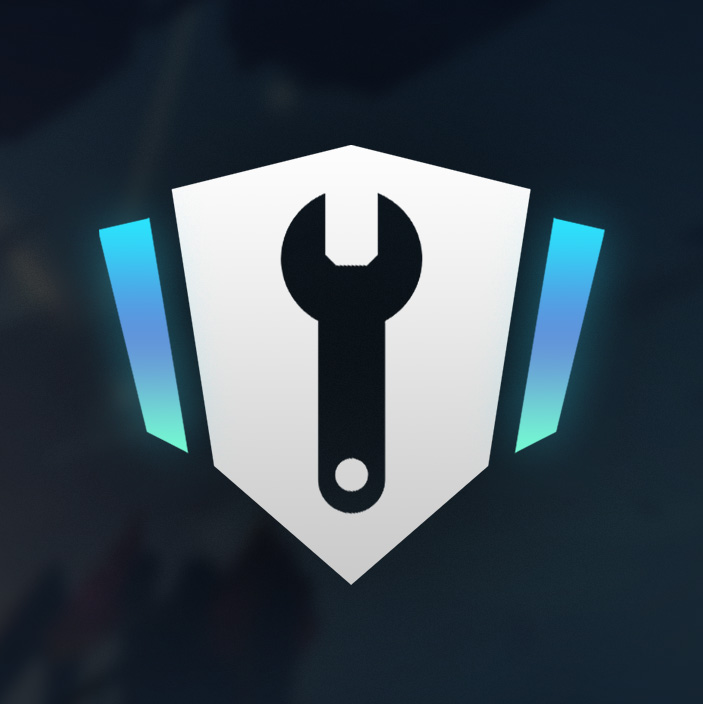
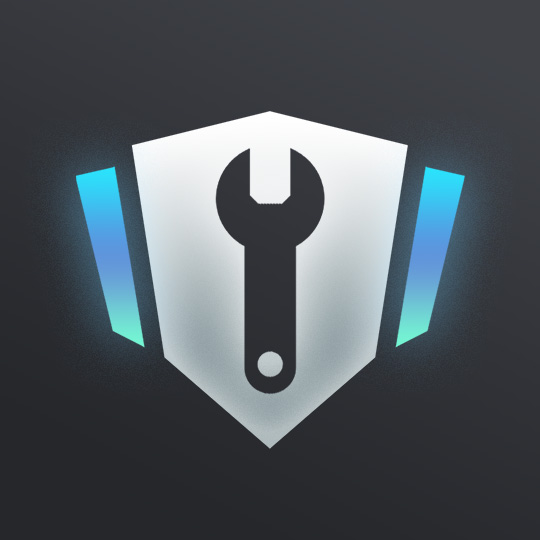
Obsidian Patches 1.8.2: the new image

diff --git a/CHANGELOG.md b/CHANGELOG.md
@@ -2,6 +2,10 @@
 
 New, changed or removed options, one line each, brief and direct. A release's section becomes its release notes.
 
+## 1.8.2
+
+- Changed: a new image beside the mod in Obsidian's mod list.
+
 ## 1.8.1
 
 - Changed: Sprint pose fix now frees the upper body when a sprint starts straight from standing, which is how a sprint starts after getting up from a dive, and after firing or a weapon switch too.
